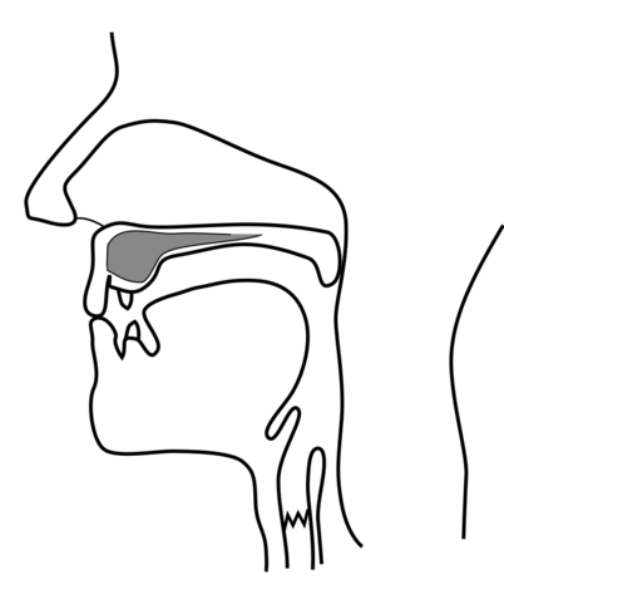
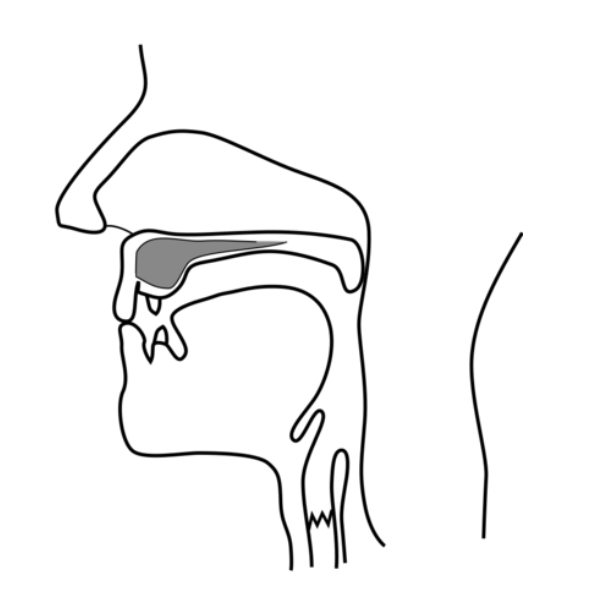
added some sagittal diagrams to folder working on adding the rest of them

diff --git a/soundQuiz.js b/soundQuiz.js
@@ -1,0 +1,78 @@
+const IPA_English_dict = {
+    "p": "voiceless bilabial plosive", 
+    "b": "voiced bilabial plosive", 
+    "t": "voiceless alveolar plosive", 
+    "d": "voiced alveolar plosive", 
+    "k": "voiceless velar plosive", 
+    "g": "voiced velar plosive", 
+    "m": "voiced bilabial nasal", 
+    "n": "voiced alveolar nasal",
+    "ŋ": "voiced velar nasal", 
+    "f": "voiceless labiodental fricative",
+    "v": "voiced labiodental fricative",
+    "θ": "voiceless dental fricative",
+    "ð": "voiced dental fricative",
+    "s": "voiceless alveolar fricative",
+    "z": "voiced alveolar fricative", 
+    "ʃ": "voiceless postalveolar fricative",
+    "ʒ": "voiced postalveolar fricative",
+    "h": "voiceless glottal fricative", 
+    "ʔ": "voiced glottal plosive",
+    "ɹ": "voiced alveolar approximant",
+    "j": "voiced palatal approximant",
+    "l": "voiced alveolar lateral-approximant",
+    "w": "voiced labial velar-approximant" 
+};
+
+const IPA_Sound_dict = { 
+    "p": "[p]ut my shit back",
+    "b": "[b]itch ass", 
+    "t": "[t]ake yo ass to sleep", 
+    "d": "[d]on't touch my shit", 
+    "k": "[k]rackhead", 
+    "g": "[g]ive me that fucking phone", 
+    "m": "[m]ove [m]f", 
+    "n": "[n]o dumbass", 
+    "ŋ": "no you fucki[ng] dumbass", 
+    "f": "[f]uck you", 
+    "v": "[v]ery much no", 
+    "θ": "you need [th]erapy", 
+    "ð": "[th]e fuck",
+    "s": "you a [s]nake",
+    "z": "Mark [z]ukerberg is ugly", 
+    "ʃ": "[sh]ut yo ass up", 
+    "ʒ": "it is not a plea[z]ure to meet you ugly ass", 
+    "h": "[h]ating ass mf", 
+    "ʔ":"uh[]uh hell no",
+    "ɹ": "[r]atio mf", 
+    "j": "[y]ou're done", 
+    "l": "[l]et me catch yo ass in my shit again", 
+    "w": "[w]hy is you in my business?"                
+};
+
+const IPA_Sag = {
+    "p": null, 
+    "b": null, 
+    "t": null, 
+    "d": null, 
+    "k": null, 
+    "g": null, 
+    "m": null, 
+    "n": null, 
+    "ŋ": null, 
+    "f": null, 
+    "v": null, 
+    "θ": null, 
+    "ð": null, 
+    "s": null, 
+    "z": null, 
+    "ʃ": null, 
+    "ʒ": null, 
+    "h": null, 
+    "ʔ": null, 
+    "ɹ": null, 
+    "j": null, 
+    "l": null, 
+    "w": null
+}; 
+

diff --git a/sagittalQuiz.js b/sagittalQuiz.js
@@ -1,0 +1,46 @@
+/* Produce sagittal diagram and user puts voice, manner, and place */
+
+const IPA_English_dict = {
+    "p": "voiceless bilabial plosive", /* p has pic */
+    "b": "voiced bilabial plosive", /*b has pic */
+    "t": "voiceless alveolar plosive", /*t has pic */
+    "d": "voiced alveolar plosive", /*d has pic */
+    "k": "voiceless velar plosive", /*k has pic */
+    "g": "voiced velar plosive", /*g has pic*/
+    "m": "voiced bilabial nasal", 
+    "n": "voiced alveolar nasal",
+    "ŋ": "voiced velar nasal", 
+    "f": "voiceless labiodental fricative",
+    "v": "voiced labiodental fricative",
+    "θ": "voiceless dental fricative",
+    "ð": "voiced dental fricative",
+    "s": "voiceless alveolar fricative",
+    "z": "voiced alveolar fricative", 
+    "ʃ": "voiceless postalveolar fricative",
+    "ʒ": "voiced postalveolar fricative",
+    "h": "voiceless glottal fricative", 
+    "ʔ": "voiced glottal plosive",
+    "ɹ": "voiced alveolar approximant",
+    "j": "voiced palatal approximant",
+    "l": "voiced alveolar lateral-approximant",
+    "w": "voiced labial velar-approximant" 
+};
+
+function parse(input) {
+    const parsed = {};
+    for (const [symbol, desc] of Object.entries(input)) {
+        const [voicing, place, manner] = desc.split(" ");
+        parsed[symbol] = { voicing, place, manner };
+    }
+    return parsed;
+}
+
+const parsedDict = parse(IPA_English_dict);
+
+function getDiagram() {
+    return; 
+}
+
+function sagittalFind(symbol) { 
+    return IPA_English_dict[symbol]; 
+}

diff --git a/symbolQuiz.js b/symbolQuiz.js
@@ -108,11 +108,6 @@ function soundFind(symbol) { /* Pick a symbol, play its corresponding sound, use
     return;
 }
 
-function sagittalFind(symbol) { /* Produce sagittal diagram and user puts voice, manner, and place */
-
-    return IPA_English_dict[symbol]; 
-}
-
 /* once user gets it's wrong 3 times in a row, reveal the correct answer */
 function correctReveal(wrongAttempts) {
     if (wrongAttempts >= 3) {
